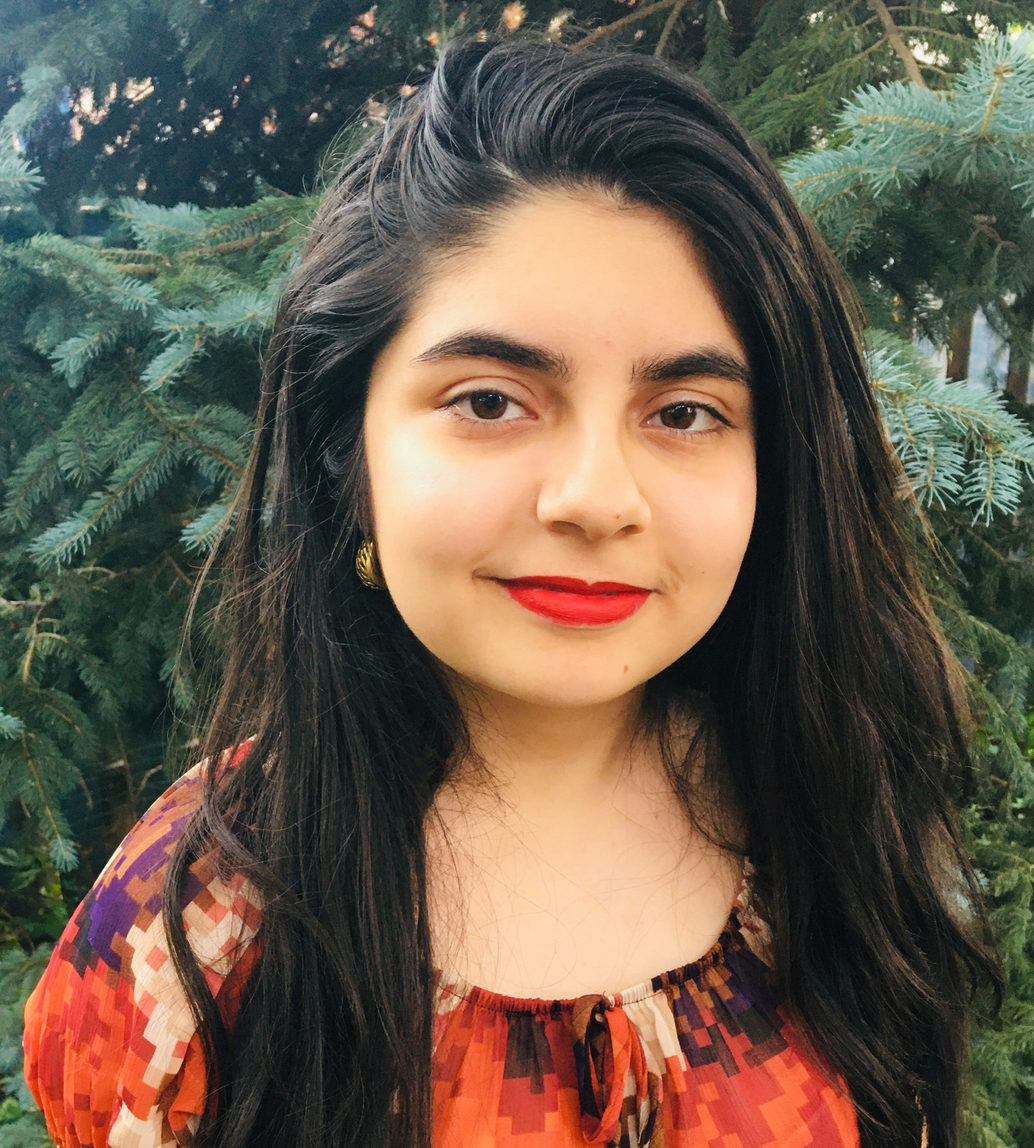
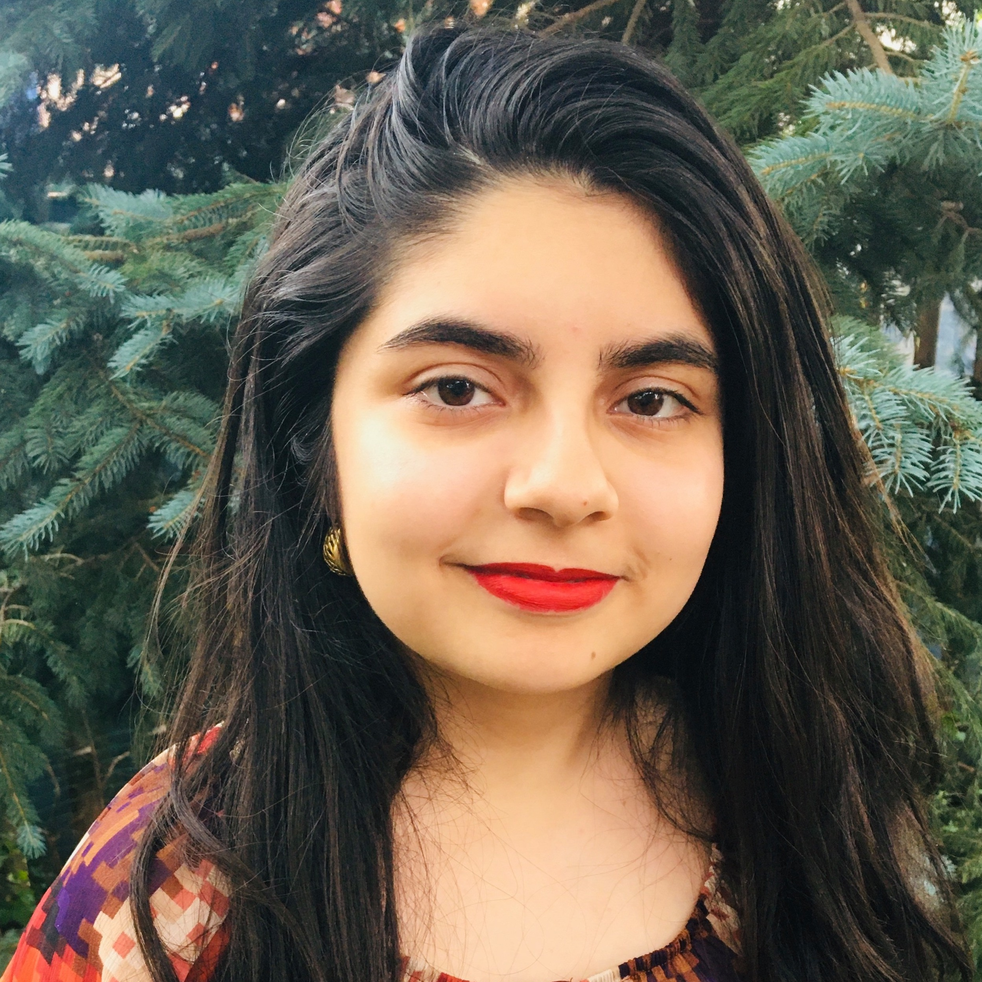
Modified Aisha and Decaran's profile pictures for Team component, changed CSS styling for anchor links in Team and HomePage, changed first name display to name and position displays underneath each member in Teams and updated image links for Sponsors in sponsors.js

diff --git a/src/react-components/Team/index.js b/src/react-components/Team/index.js
@@ -20,7 +20,8 @@ const Team = () => {
               <Image className="executive-photo" src={exec.image} key={exec.firstname} />
             </Button>
             <div>
-              <h4 className="executive-name">{exec.firstname}</h4>
+              <h3 className="executive-name">{exec.name}</h3>
+              <h5 className="executive-position">{exec.position}</h5>
             </div>
           </div>
 
@@ -53,53 +54,62 @@ const Team = () => {
           <BrowserRouter forceRefresh={true}>
           <div className="team">
               <div class="container">
-                  <br />
-                  <h3 className="team-name" id="senior-staff">Senior Staff</h3>
-                    <Row className="grid-container team-subtitle">
-                    {SENIOR_STAFF.map(renderExec)}
+                  <div>
+                    <h3 className="team-name" id="senior-staff">Senior Staff</h3>
+                    <Row className="grid-container team-members">
+                      {SENIOR_STAFF.map(renderExec)}
                     </Row>
-                  <br />
-                  <h3 className="team-name" id="conference">Conference</h3>
-                  <Row className="grid-container team-subtitle">
-                    {CONFERENCE.map(renderExec)}
-                  </Row>
-                  <br />
-                  <h3 className="team-name" id="marketing">Marketing</h3>
-                  <Row className="grid-container team-subtitle">
-                    {MARKETING.map(renderExec)}
-                  </Row>
-                  <br />
-                  <h3 className="team-name" id="affairs">Affairs</h3>
-                  <Row className="grid-container team-subtitle">
-                    {AFFAIRS.map(renderExec)}
-                  </Row>
-                  <br />
-                  <h3 className="team-name" id="mentorship">Mentorship</h3>
-                  <Row className="grid-container team-subtitle">
-                    {MENTORSHIP.map(renderExec)}
-                  </Row>
-                  <br />
-                  <h3 className="team-name" id="events">Events</h3>
-                  <Row className="grid-container team-subtitle">
-                    {EVENTS.map(renderExec)}
-                  </Row>
-                  <br />
-                  <h3 className="team-name" id="tech-and-innovations">Technology &amp; Innovations</h3>
-                  <Row className="grid-container team-subtitle">
-                    {TECH_INNOVATIONS.map(renderExec)}
-                  </Row>
-                  <br />
-                  <h3 className="team-name" id="jigg">JIGG</h3>
-                  <Row className="grid-container team-subtitle">
-                    {JIGG.map(renderExec)}
-                  </Row>
-                  <br />
+                  </div>
+                  <div>
+                    <h3 className="team-name" id="conference">Conference</h3>
+                    <Row className="grid-container team-members">
+                      {CONFERENCE.map(renderExec)}
+                    </Row>
+                  </div>
+                  <div>
+                    <h3 className="team-name" id="marketing">Marketing</h3>
+                    <Row className="grid-container team-members">
+                      {MARKETING.map(renderExec)}
+                    </Row>
+                  </div>
+                  <div>
+                    <h3 className="team-name" id="affairs">Affairs</h3>
+                    <Row className="grid-container team-members">
+                      {AFFAIRS.map(renderExec)}
+                    </Row>
+                  </div>
+                  <div>
+                    <h3 className="team-name" id="mentorship">Mentorship</h3>
+                    <Row className="grid-container team-members">
+                      {MENTORSHIP.map(renderExec)}
+                    </Row>
+                  </div>
+                  <div>
+                    <h3 className="team-name" id="events">Events</h3>
+                    <Row className="grid-container team-members">
+                      {EVENTS.map(renderExec)}
+                    </Row>
+                  </div>
+                  <div>
+                    <h3 className="team-name" id="tech-and-innovations">Technology &amp; Innovations</h3>
+                    <Row className="grid-container team-members">
+                      {TECH_INNOVATIONS.map(renderExec)}
+                    </Row>
+                  </div>
+                  <div>
+                    <h3 className="team-name" id="jigg">JIGG</h3>
+                    <Row className="grid-container team-members">
+                      {JIGG.map(renderExec)}
+                    </Row>
+                  </div>
                   <hr className="divider" />
-                  <h3 className="team-name">Alumni</h3>
+                  <div>
+                    <h3 className="team-name">Alumni</h3>
                     <br />
                     <p className="learn-more">You can click <a href="https://www.gsggb.org/team2019-2020">here</a> to learn more about our previous GSGGB executives from the 2019 - 2020 academic year.</p>
                     <p className="learn-more">You can click <a href="https://www.gsggb.org/team2018-2019">here</a> to learn more about our previous GSGGB executives from the 2018 - 2019 academic year.</p>
                     <p className="learn-more">You can click <a href="https://www.gsggb.org/team2017-2018">here</a> to learn more about our previous GSGGB executives from the 2017 - 2018 academic year.</p>
+                  </div>
                </div>
             </div>
           </BrowserRouter>

diff --git a/src/react-components/Sponsors/sponsors.js b/src/react-components/Sponsors/sponsors.js
@@ -13,15 +13,15 @@ export const PLATINUM = [
 /* GOLD SPONSORS */
 export const GOLD = [
   {name: "utsu",
-   image: "../sponsors/utsu.png",
+   image: require("./static/sponsors/utsu.png"),
    link: "http://utsu.ca/"
   },
   {name: "janpix",
-   image: "../sponsors/janpix.jpg",
+   image: require("./static/sponsors/janpix.jpg"),
    link: "https://www.janpixbio.com/"
  },
  {name: "princeton",
-  image: "../sponsors/princeton.jpg",
+  image: require("./static/sponsors/princeton.jpg"),
   link: "https://www.princetonreview.com/"
  }
 ]
@@ -29,15 +29,15 @@ export const GOLD = [
 /* SILVER SPONSORS */
 export const SILVER = [
   {name: "physiology",
-   image: "../sponsors/physiology.jpg",
+   image: require("./static/sponsors/physiology.jpg"),
    link: "https://www.physiology.utoronto.ca/"
   },
   {name: "csb",
-   image: "../sponsors/csb.jpg",
+   image: require("./static/sponsors/csb.jpg"),
    link: "https://csb.utoronto.ca/"
  },
  {name: "newcollege",
-  image: "../sponsors/newcollege.jpg",
+  image: require("./static/sponsors/newcollege.jpg"),
   link: "https://www.newcollege.utoronto.ca/"
  }
 ]
@@ -45,11 +45,11 @@ export const SILVER = [
 /* BRONZE SPONSORS */
 export const BRONZE = [
   {name: "assu",
-   image: "../sponsors/assu.jpg",
+   image: require("./static/sponsors/assu.jpg"),
    link: "https://assu.ca"
   },
   {name: "oztrekk",
-   image: "../sponsors/oztrekk.png",
+   image: require("./static/sponsors/oztrekk.png"),
    link: "https://oztrekk.com/"
  }
 ]
@@ -57,27 +57,27 @@ export const BRONZE = [
 /* PARNTER SPONSORS */
 export const PARTNERS = [
   {name: "partner-landscape",
-   image: "../sponsors/ssscr.jpg",
+   image: require("./static/sponsors/ssscr.jpg"),
    link: "http://ssscr.sa.utoronto.ca/"
   },
   {name: "partner-square",
-   image: "../sponsors/stem-fellowship-uoft.png",
+   image: require("./static/sponsors/stem-fellowship-uoft.png"),
    link: "https://www.facebook.com/stemfellowshipuoft/"
   },
  {name: "carrm",
-  image: "../sponsors/carrm.jpg",
+  image: require("./static/sponsors/carrm.jpg"),
   link: "https://www.facebook.com/CARRM.UofT/"
   },
   {name: "heart",
-   image: "../sponsors/heart.jpg",
+   image: require("./static/sponsors/heart.jpg"),
    link: "https://www.facebook.com/UofTheart/"
   },
   {name: "wbc",
-   image: "../sponsors/wbc.jpg",
+   image: require("./static/sponsors/wbc.jpg"),
    link: "https://www.facebook.com/uoftWBC/"
   },
  {name: "bioethics",
-  image: "../sponsors/bioethics.jpg",
+  image: require("./static/sponsors/bioethics.jpg"),
   link: "https://www.facebook.com/UofTBioethics/"
   }
 ]
@@ -85,7 +85,7 @@ export const PARTNERS = [
 /* SPECIAL THANK YOU */
 export const SPECIAL = [
   {name: "rare-disease-foundation",
-   image: "../sponsors/rare-disease-foundation.jpg",
+   image: require("./static/sponsors/rare-disease-foundation.jpg"),
    link: "https://www.rarediseasefoundation.org/"
   }
 ]

diff --git a/src/react-components/Team/styles.css b/src/react-components/Team/styles.css
@@ -4,6 +4,7 @@ html {
 }
 
 .grid-container{
+  font-family: Tahoma, Geneva, sans-serif;
   display: grid;
   justify-content: space-evenly;
 }
@@ -14,9 +15,16 @@ html {
   background-color: white;
 }
 
+.white-background{
+    background-color: white;
+}
+
+.whitesmoke-background{
+    background-color: whitesmoke;
+}
+
 /* Team Sections */
-.team-subtitle{
-    font-family: Tahoma, Geneva, sans-serif;
+.team-members{
     font-size: 38px;
     text-align: center;
     color: black;
@@ -54,39 +62,29 @@ html {
 }
 
 .executive-name{
+    font-family: Tahoma, Geneva, sans-serif;
     color: black;
     margin-top: 15px;
-    margin-bottom: 20px;
-    font-size: 24px;
+    margin-bottom: 10px;
+    font-size: 20px;
     margin-left: 30px;
 }
 
 .executive-position{
-    color: white;
+    font-family: Tahoma, Geneva, sans-serif;
+    color: #4c4c4c;
     text-align: center;
+    margin-left: 30px;
+    font-size: 18px;
+    margin-bottom: 40px;
+    font-style: italic;
+
 }
 /* End of Team Executive Buttons */
 
 /* Anchor Links */
-#conference:before, #marketing:before, #affairs:before{
-   content: "";
-   display: block;
-   height: 150px;
-   margin-top: -150px;
-}
-
-#affairs:before, #mentorship:before, #events:before ,#jigg:before, #tech-and-innovations:before{
-   content: "";
-   display: block;
-   height: 130px;
-   margin-top: -130px;
-}
-
-#senior-staff:before{
-  content: "";
-  display: block;
-  height: 160px;
-  margin-top: -160px;
+h3{
+  scroll-margin-top: 10rem;
 }
 /* End of Anchor Links */
 

diff --git a/src/react-components/Team/executives.js b/src/react-components/Team/executives.js
@@ -7,7 +7,7 @@ export const SENIOR_STAFF = [
    firstname: "Aisha",
    id: "aishaf-1"
   },
-  {name: "Farbod Khourami",
+  {name: "Farbod Khorrami",
    image: require("./static/team-photos/farbod.jpg"),
    position: "Co-President",
    biography: "Farbod Khorrami is a fourth-year undergraduate student, and he is one of the Co-Presidents of GSGGB. He double majors in neuroscience and physiology (as he is very interested in neuroanatomy and function of the human brain and neurodegenerative diseases of the nervous system). Currently, he is involved in research on Parkinson’s Disease and its pathology in Dr Kovacs’s lab at Toronto Western Hospital. Other than that, he is a research volunteer in the Renal Physiology Lab at Toronto General Hospital and the Co-President of the UofT chapter of SciNapse (Undergraduate Science Case Competition). He plans to apply to medical school and become a medical doctor. To become familiar with different areas of research, he joined Allevio Pain Clinic as a research assistant. Neuroscience and orthopedics are his main interests and he hopes to pursue a career in these two fields. Along with the rest of the team, he looks forward to meeting all of the genetics enthusiasts!",

diff --git a/src/react-components/HomePage/index.js b/src/react-components/HomePage/index.js
@@ -35,7 +35,7 @@ class HomePage extends Component {
             <div className="banner">
               <Image id="banner-photo" alt="GSGGB Banner" src={banner} />
             </div>
-            <div className="about-us">
+            <div className="about-us-section">
               <div className="container">
                 <h2 className="section-title" id="about-us">About Us</h2>
                 <hr className="title-separator"></hr>
@@ -93,9 +93,9 @@ class HomePage extends Component {
               </div>
             </div>
 
-            <div className="announcements" id = "announcements">
+            <div className="announcements-section">
               <div className="container">
-                <h2 className="section-title">Announcements</h2>
+                <h2 className="section-title" id="announcements">Announcements</h2>
                 <hr className="title-separator"></hr>
                 <span>{this.state.announcements}</span>
               </div>

diff --git a/src/react-components/HomePage/styles.css b/src/react-components/HomePage/styles.css
@@ -23,7 +23,7 @@ body, html{
 /* End of Banner */
 
 /* About Us */
-.about-us{
+.about-us-section{
   padding-top: 100px;
   padding-bottom: 25px;
   background-color: white;
@@ -69,8 +69,14 @@ body, html{
 }
 /* End of About Us */
 
+/* Anchor Links */
+h2{
+  scroll-margin-top: 20rem;
+}
+/* End of Anchor Links */
+
 /* Announcements */
-.announcements{
+.announcements-section{
   padding-top: 100px;
   padding-bottom: 75px;
   background-color: white;
